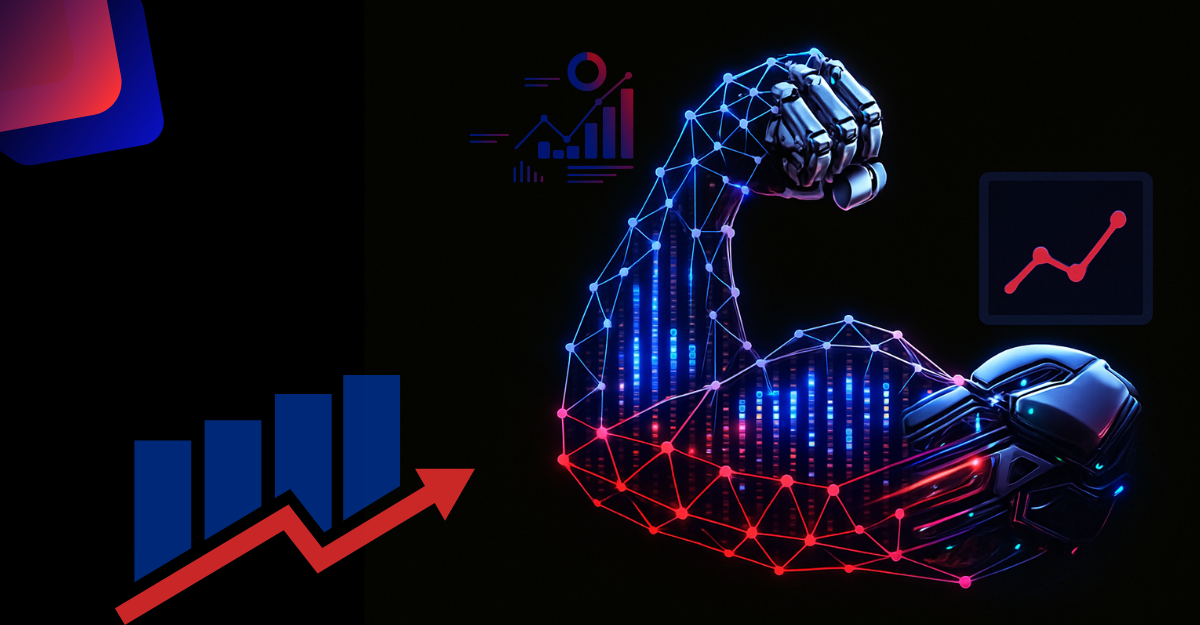
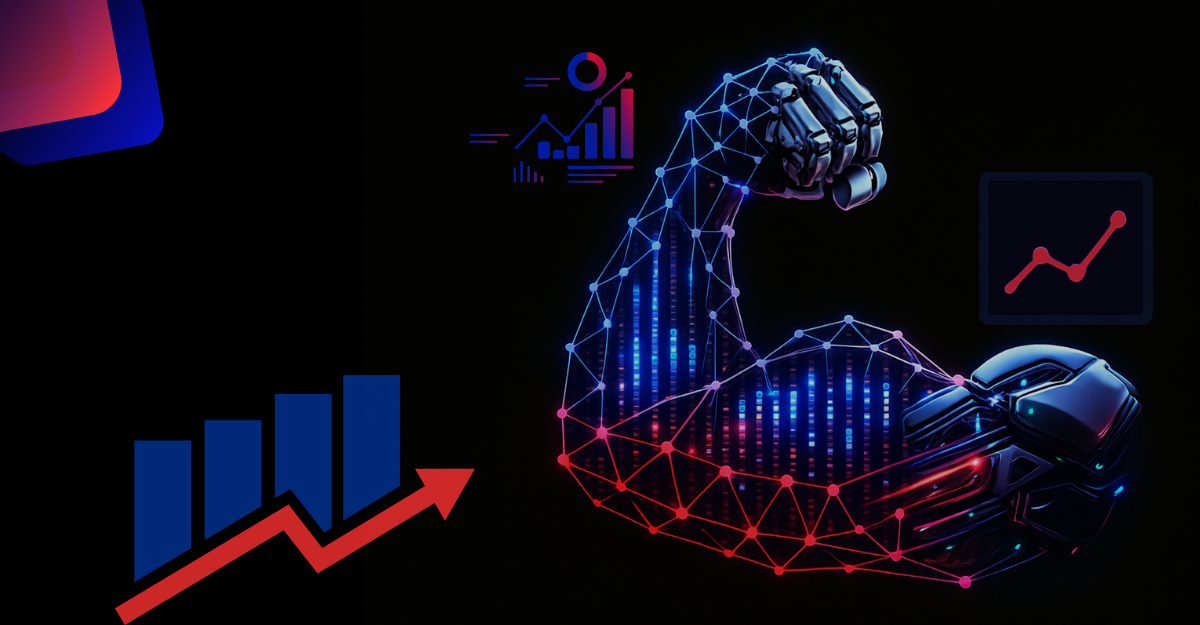
changed hero brightness

diff --git a/app/components/layout.js b/app/components/layout.js
@@ -225,9 +225,9 @@ w-[60%]
 </header>
 
 
-<header className="md:hidden w-[100%] mobiles max-w-[649px]"> 
+<header className="md:hidden w-[100%] mobiles max-w-[649px] bg-black"> 
 
-<div className="relative w-full h-[500px]">
+<div className="relative w-full h-[700px] top-[2rem]">
       <Image
      className=""
         alt=""
@@ -261,7 +261,7 @@ onClick={onToggleMenu}
 </div>
 
       </div>
-<div className="top-[6rem] max-w-[649px] absolute  
+<div className="top-[12rem] max-w-[649px] absolute  
 right-[3rem] left-[3rem]">
      <h2 className="font-barlow text-white
       text-xl relative font-bold uppercase leading-5">
@@ -295,7 +295,7 @@ w-[100%]
       <button className="hero-contact
        box-content 
         text-white bg-pink-600
-        font-bold font-barlow uppercase py-[6px] px-[6px]
+        font-bold font-barlow uppercase py-[6px] px-[12px]
         rounded shadow-[1px_1px_5px_-1px_#4c4c4c]">
        <Link href="/contact">Book a free strategy call</Link>
        
